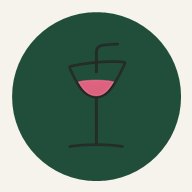
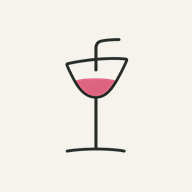
Mejorar icono y gráfico de gastos

diff --git a/frontend/js/app.js b/frontend/js/app.js
@@ -114,6 +114,14 @@ function renderDashboard() {
   const activeFamilyCount = data.community.activeFamilyCount ?? activeFamilies.length;
   const maxMonthlyExpense = Math.max(1, ...data.monthlyExpensesCents);
   const categoryTotal = sumCents(data.expenseCategories, (category) => category.amountCents);
+  let segmentStart = 0;
+  const expenseSegments = data.expenseCategories.filter((category) => category.amountCents > 0).map((category) => {
+    const segmentEnd = segmentStart + (category.amountCents / categoryTotal) * 100;
+    const gapStart = Math.max(segmentStart, segmentEnd - 0.85);
+    const segment = `${safeCssColor(category.color)} ${segmentStart.toFixed(2)}% ${gapStart.toFixed(2)}%, var(--surface) ${gapStart.toFixed(2)}% ${segmentEnd.toFixed(2)}%`;
+    segmentStart = segmentEnd;
+    return segment;
+  }).join(", ");
   const waterTotalM3 = waterSettlementState().preview?.totalUsageM3 ?? 0;
   const yearlyDifferenceCents = data.community.yearlyIncomeCents - data.community.yearlyExpensesCents;
   const pendingFamilies = activeFamilies.length - upToDate;
@@ -134,8 +142,11 @@ function renderDashboard() {
       </article>
       <article class="panel categories-panel">
         <div class="panel__heading"><div><p class="section-kicker">Este año</p><h3>¿En qué gastamos?</h3></div></div>
-        <div class="donut" style="--segments:${data.expenseCategories.map((category) => `${safeCssColor(category.color)} 0`).join(",")}" aria-hidden="true"><span>${formatMoney(categoryTotal)}</span><small>Total</small></div>
-        <ul class="legend-list">${data.expenseCategories.map((category) => `<li><span class="legend-dot" style="--dot:${safeCssColor(category.color)}"></span><span>${escapeHtml(category.name)}</span><strong>${formatMoney(category.amountCents)}</strong></li>`).join("")}</ul>
+        <div class="donut" style="--segments:${expenseSegments}" role="img" aria-label="Reparto de gastos por categoría"><span>${formatMoney(categoryTotal)}</span><small>Total</small></div>
+        <ul class="legend-list">${data.expenseCategories.map((category) => {
+          const percentage = categoryTotal ? Math.round((category.amountCents / categoryTotal) * 100) : 0;
+          return `<li><span class="legend-dot" style="--dot:${safeCssColor(category.color)}"></span><span class="legend-copy"><span>${escapeHtml(category.name)}</span><small>${percentage} % del gasto</small></span><strong>${formatMoney(category.amountCents)}</strong></li>`;
+        }).join("")}</ul>
       </article>
       <article class="panel water-glance">
         <span class="water-glance__icon">${icon("water")}</span>

diff --git a/frontend/css/styles.css b/frontend/css/styles.css
@@ -92,12 +92,14 @@ button:focus-visible, a:focus-visible, input:focus-visible, select:focus-visible
 .bar-chart__value { position: absolute; top: calc(100% - var(--bar-height) - 22px); opacity: 0; font-size: .66rem; white-space: nowrap; transition: opacity .15s; }
 .bar-chart__item:hover .bar-chart__value { opacity: 1; }
 .categories-panel { grid-row: span 2; padding: 25px; }
-.donut { display: grid; width: 155px; height: 155px; place-content: center; margin: 25px auto; border-radius: 50%; background: conic-gradient(#3f7f8b 0 14.7%, #d69c45 14.7% 39.7%, #648a72 39.7% 60.2%, #bd654d 60.2% 84.3%, #8c7f72 84.3% 100%); box-shadow: inset 0 0 0 34px var(--surface); text-align: center; }
+.donut { display: grid; width: 174px; height: 174px; place-content: center; margin: 25px auto; border-radius: 50%; background: conic-gradient(var(--segments)); box-shadow: inset 0 0 0 36px var(--surface), 0 10px 24px rgba(36,53,44,.08); text-align: center; }
 .donut span, .donut small { z-index: 1; display: block; }
 .donut span { font-family: var(--font-display); font-size: 1.1rem; font-weight: 700; }
 .donut small { color: var(--muted); font-size: .7rem; }
 .legend-list { display: grid; gap: 11px; margin: 0; padding: 0; list-style: none; }
 .legend-list li { display: grid; grid-template-columns: 10px 1fr auto; align-items: center; gap: 9px; font-size: .78rem; }
+.legend-copy { display: grid; gap: 1px; }
+.legend-copy small { color: var(--muted); font-size: .66rem; }
 .legend-list strong { font-size: .77rem; }
 .legend-dot { width: 9px; height: 9px; border-radius: 50%; background: var(--dot); }
 .water-glance, .attention-card { display: grid; grid-template-columns: auto 1fr auto; align-items: center; gap: 17px; padding: 22px 24px; }

diff --git a/tests/structure.test.js b/tests/structure.test.js
@@ -93,6 +93,15 @@ test("la instalación PWA registra un service worker e iconos de Android", async
   assert.match(worker, /self\.addEventListener\("fetch"/);
 });
 
+test("el reparto de gastos usa segmentos reales y porcentajes legibles", async () => {
+  const source = await readFile(new URL("../frontend/js/app.js", import.meta.url), "utf8");
+  const styles = await readFile(new URL("../frontend/css/styles.css", import.meta.url), "utf8");
+  assert.match(source, /const expenseSegments/);
+  assert.match(source, /del gasto/);
+  assert.match(styles, /conic-gradient\(var\(--segments\)\)/);
+  assert.match(styles, /\.legend-copy small/);
+});
+
 test("la categoría Impuestos está disponible en la demo y en el seed de Supabase", async () => {
   const demo = await readFile(new URL("../frontend/js/data/demo-data.js", import.meta.url), "utf8");
   const seed = await readFile(new URL("../supabase/seed.sql", import.meta.url), "utf8");
